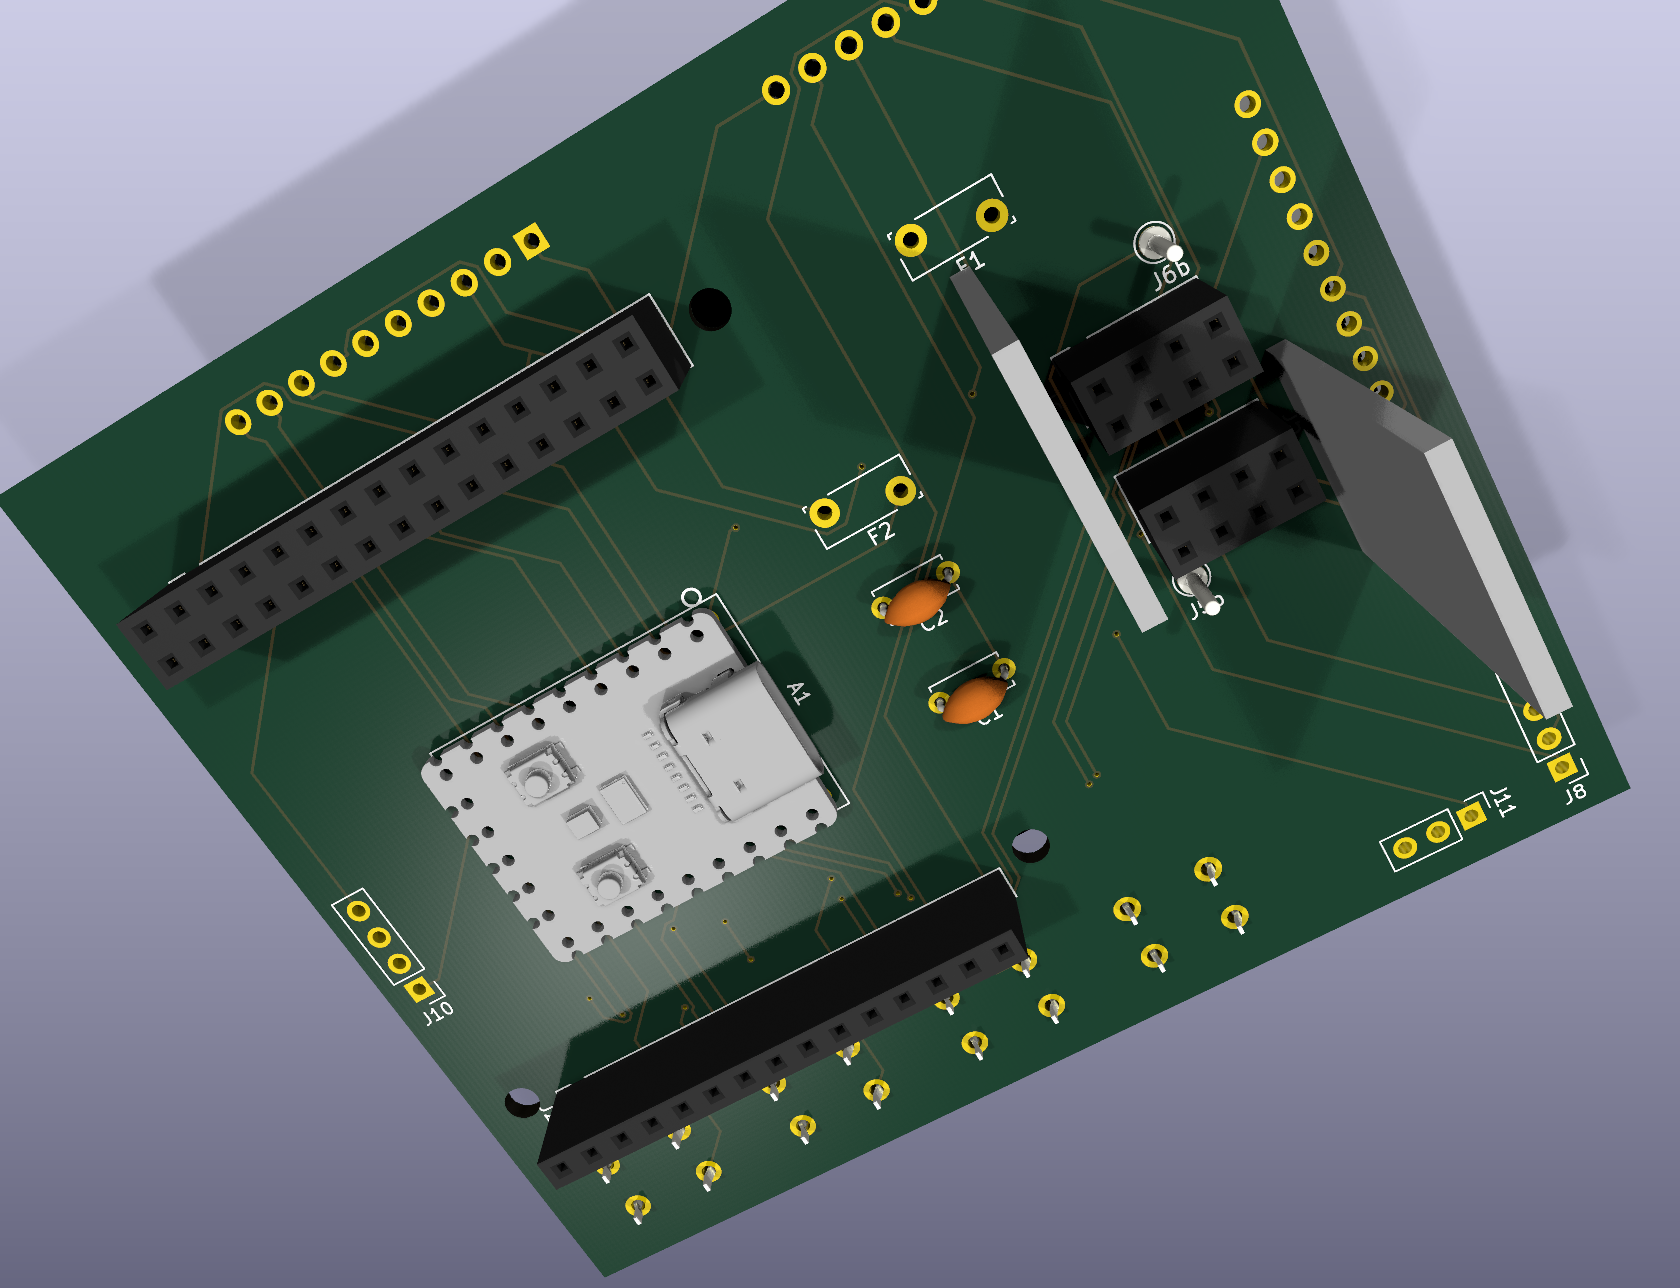
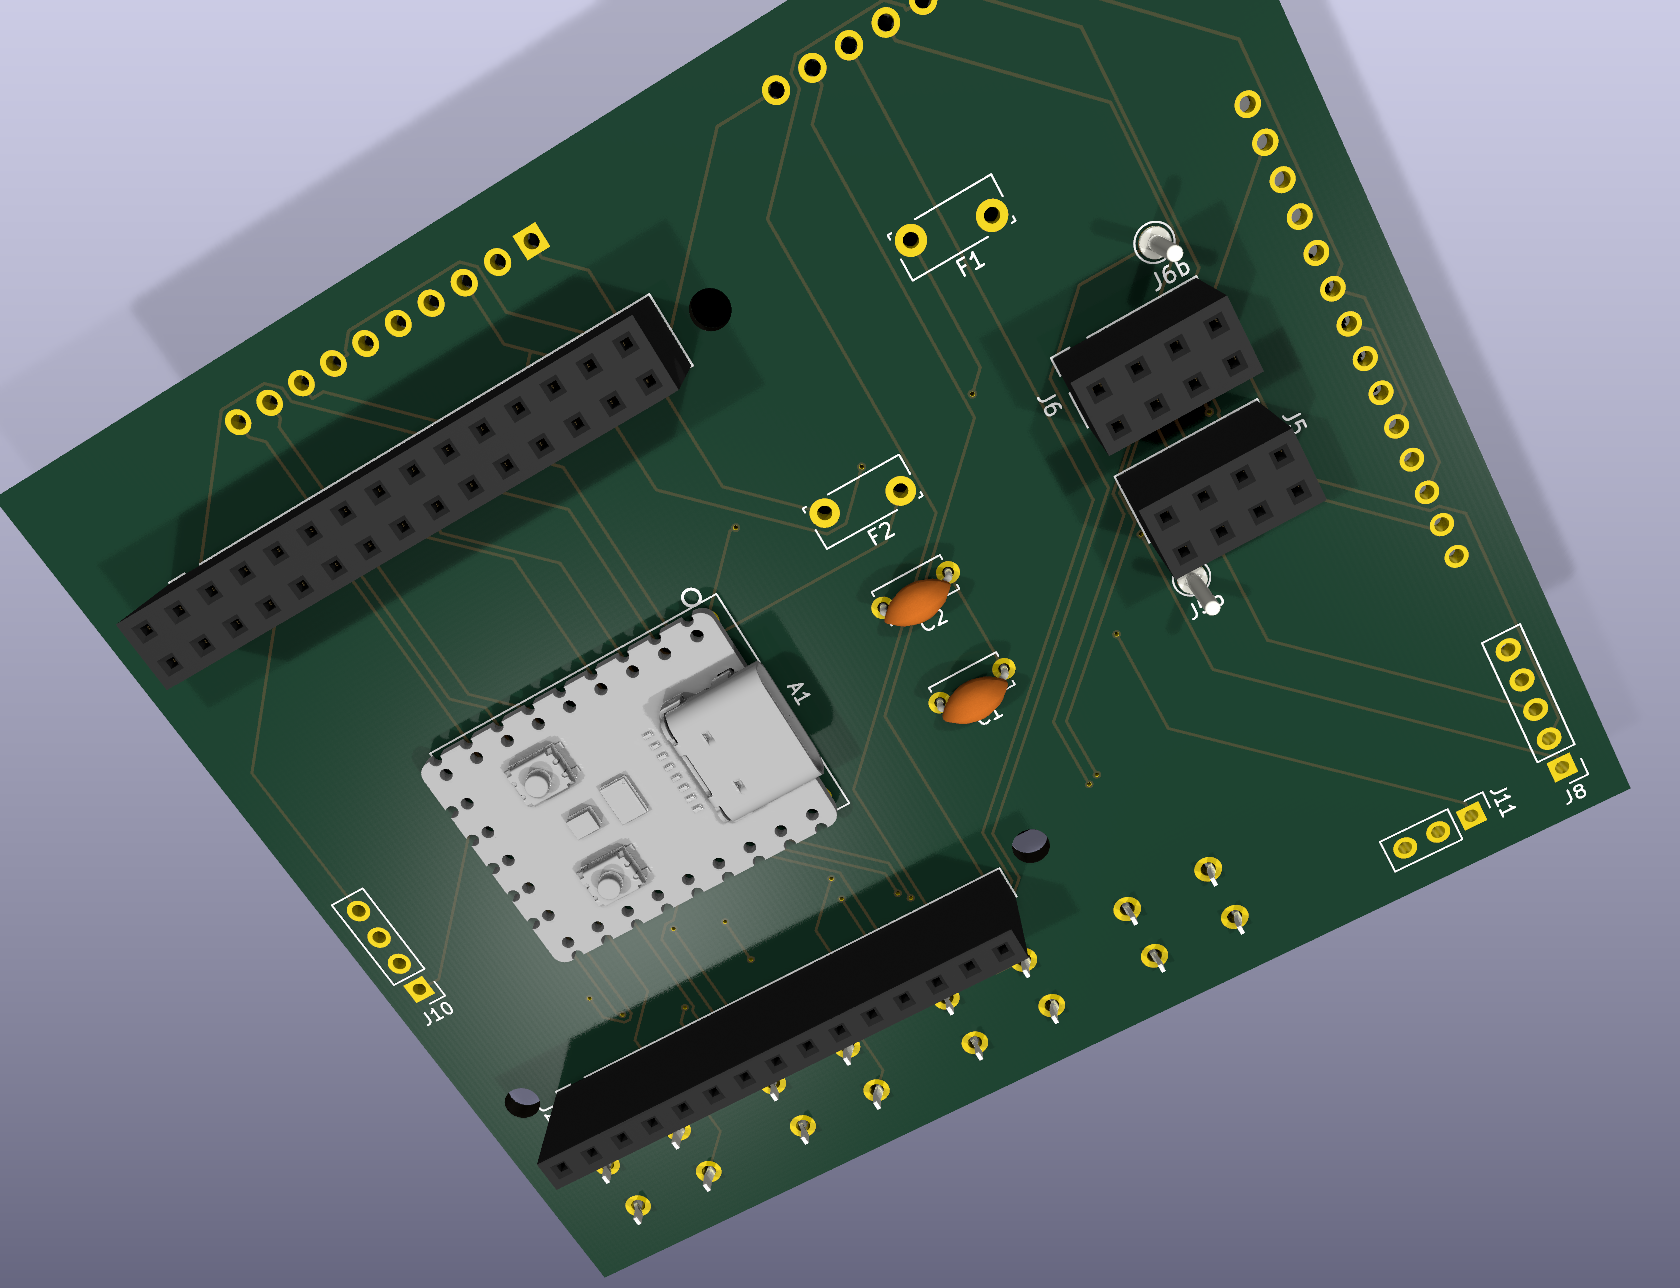
backplane: underside render — drop fake radio-module placeholders, show real sockets

diff --git a/backplane/README.md b/backplane/README.md
@@ -18,7 +18,7 @@ radios, an input MCU, a touchscreen, and a Flipper-compatible expansion header.
 
 ![top](kicad/render_full.png)
 
-**Underside** — RP2040, radio sockets (+ a module), the A7S sockets (J1/J2) the Radxa Cubie A7S plugs into, radio caps/fuses, and the joystick/encoder/button solder pads:
+**Underside** — RP2040, the two radio sockets (nRF24/CC1101/CC2500 plug in here), the A7S sockets (J1/J2) the Radxa Cubie A7S plugs into, radio caps/fuses, and the joystick/encoder/button solder pads:
 
 ![underside](kicad/render_underside.png)
 